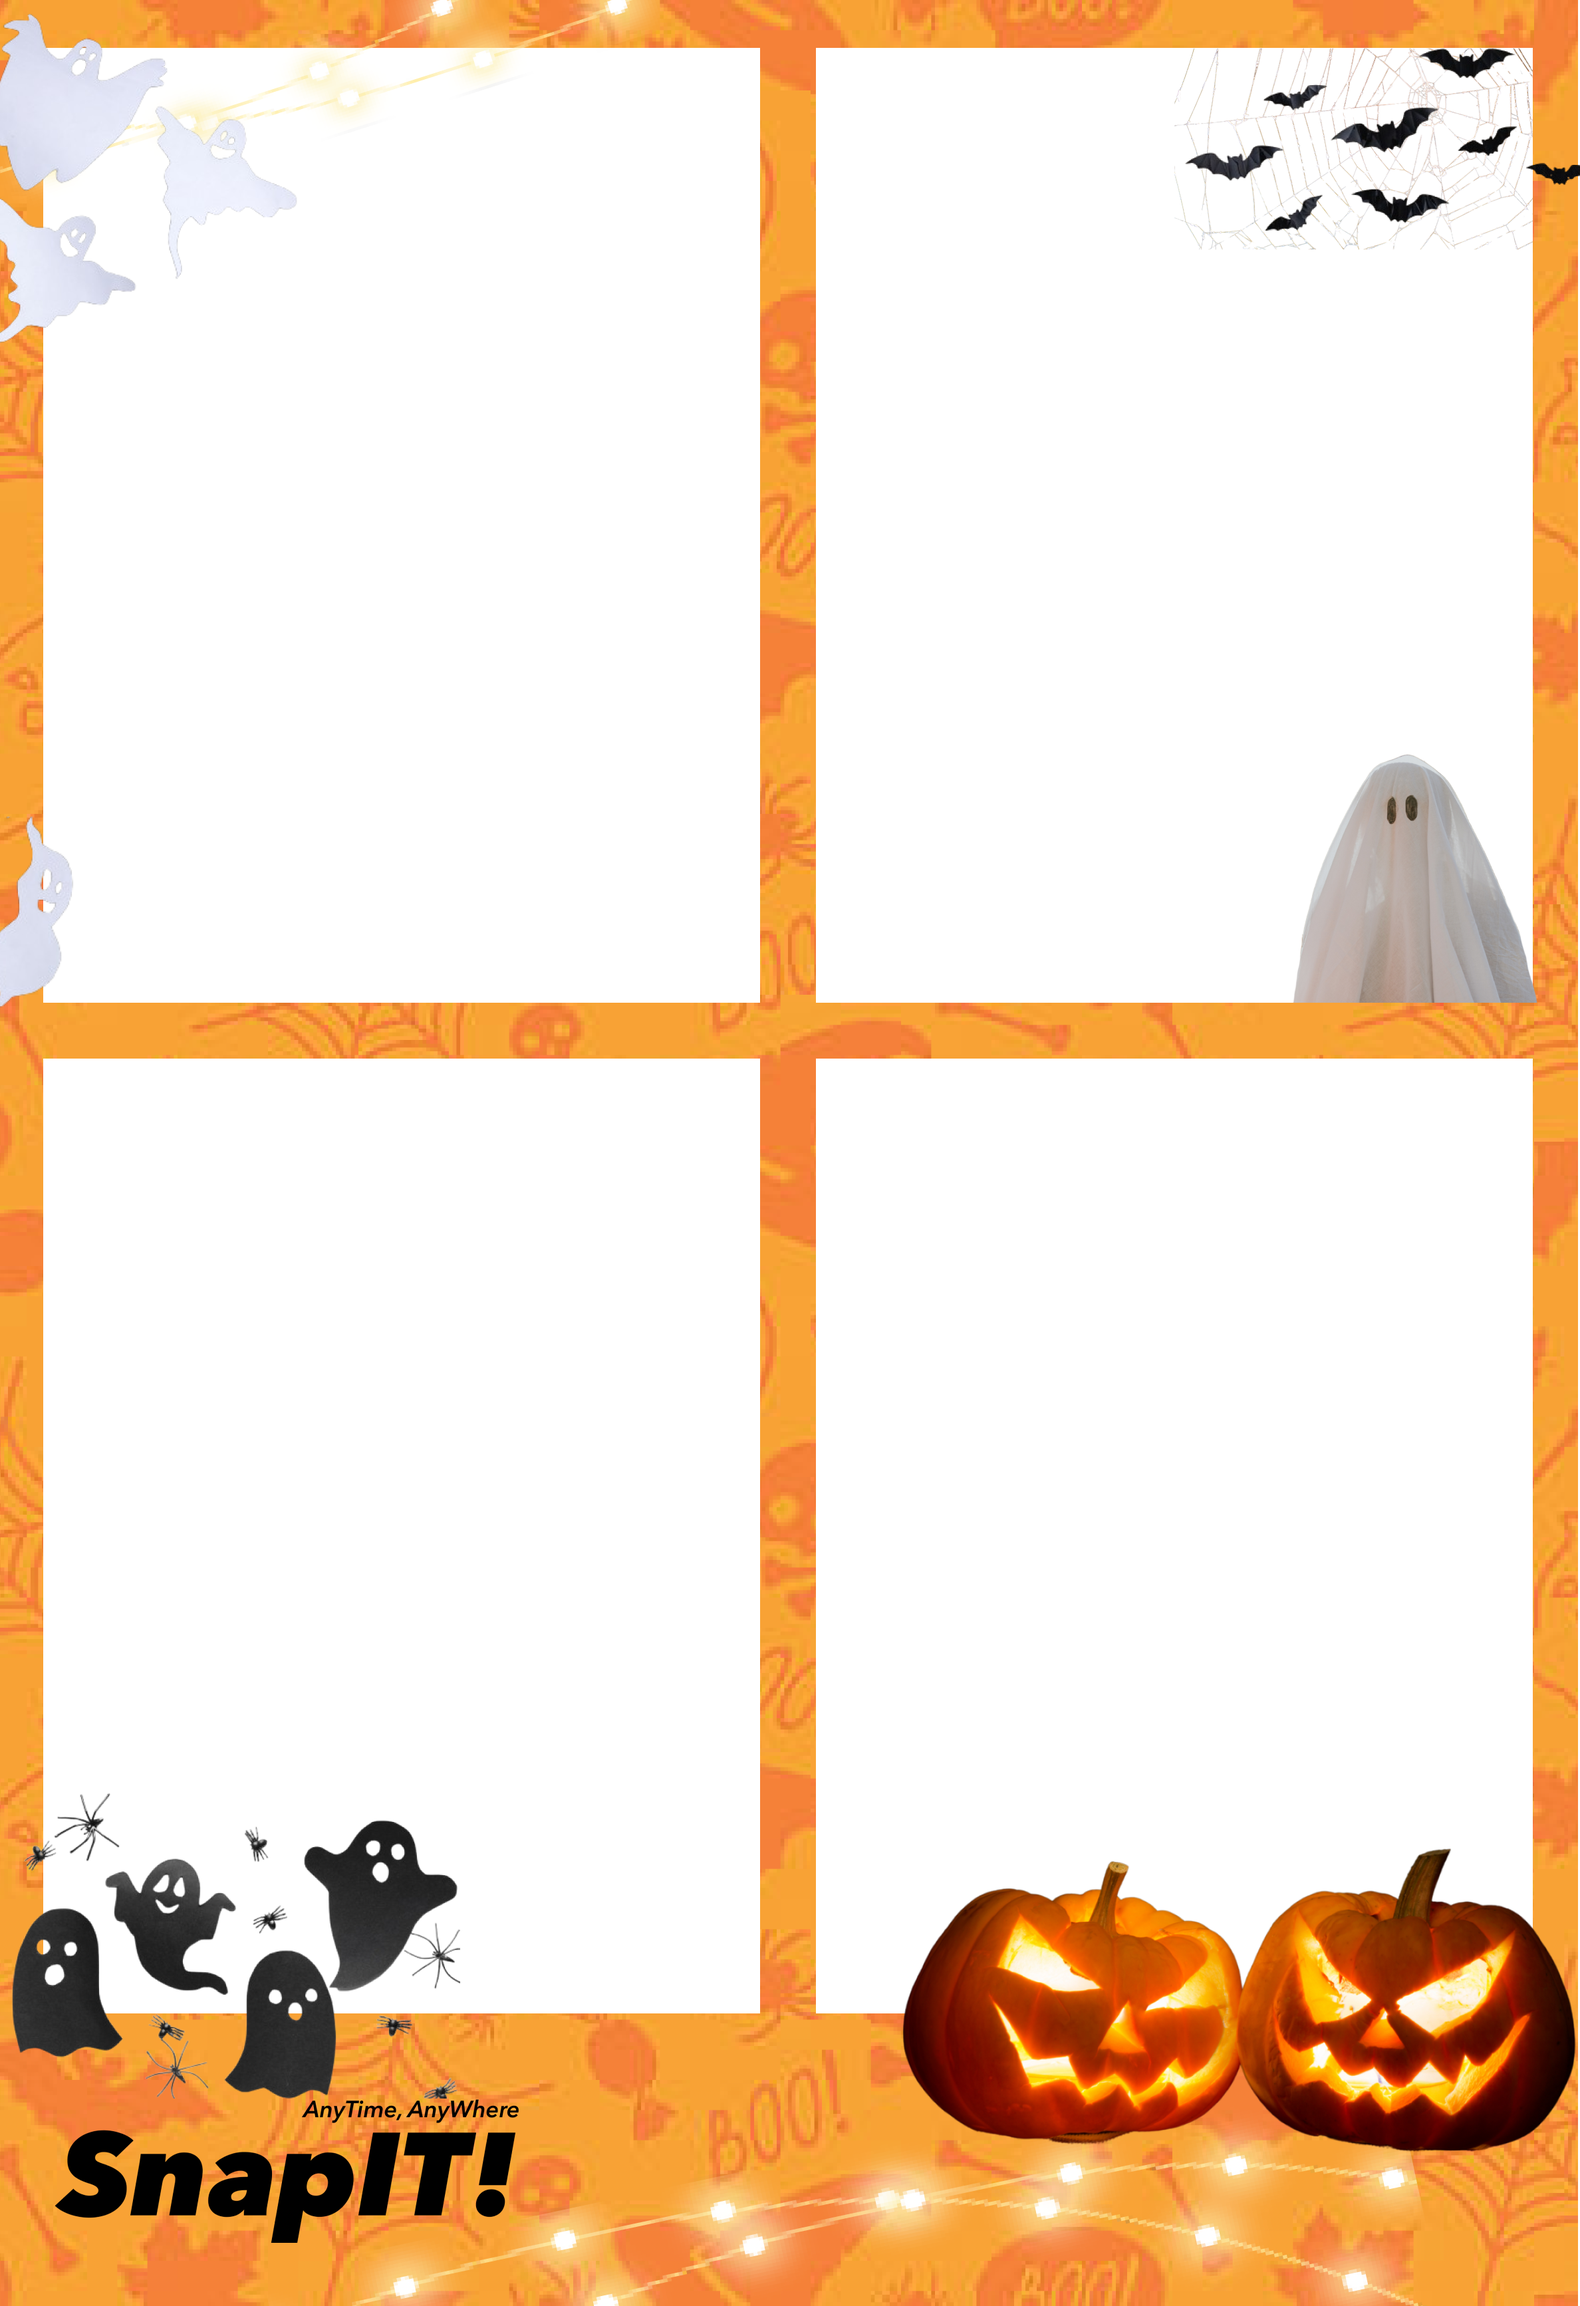
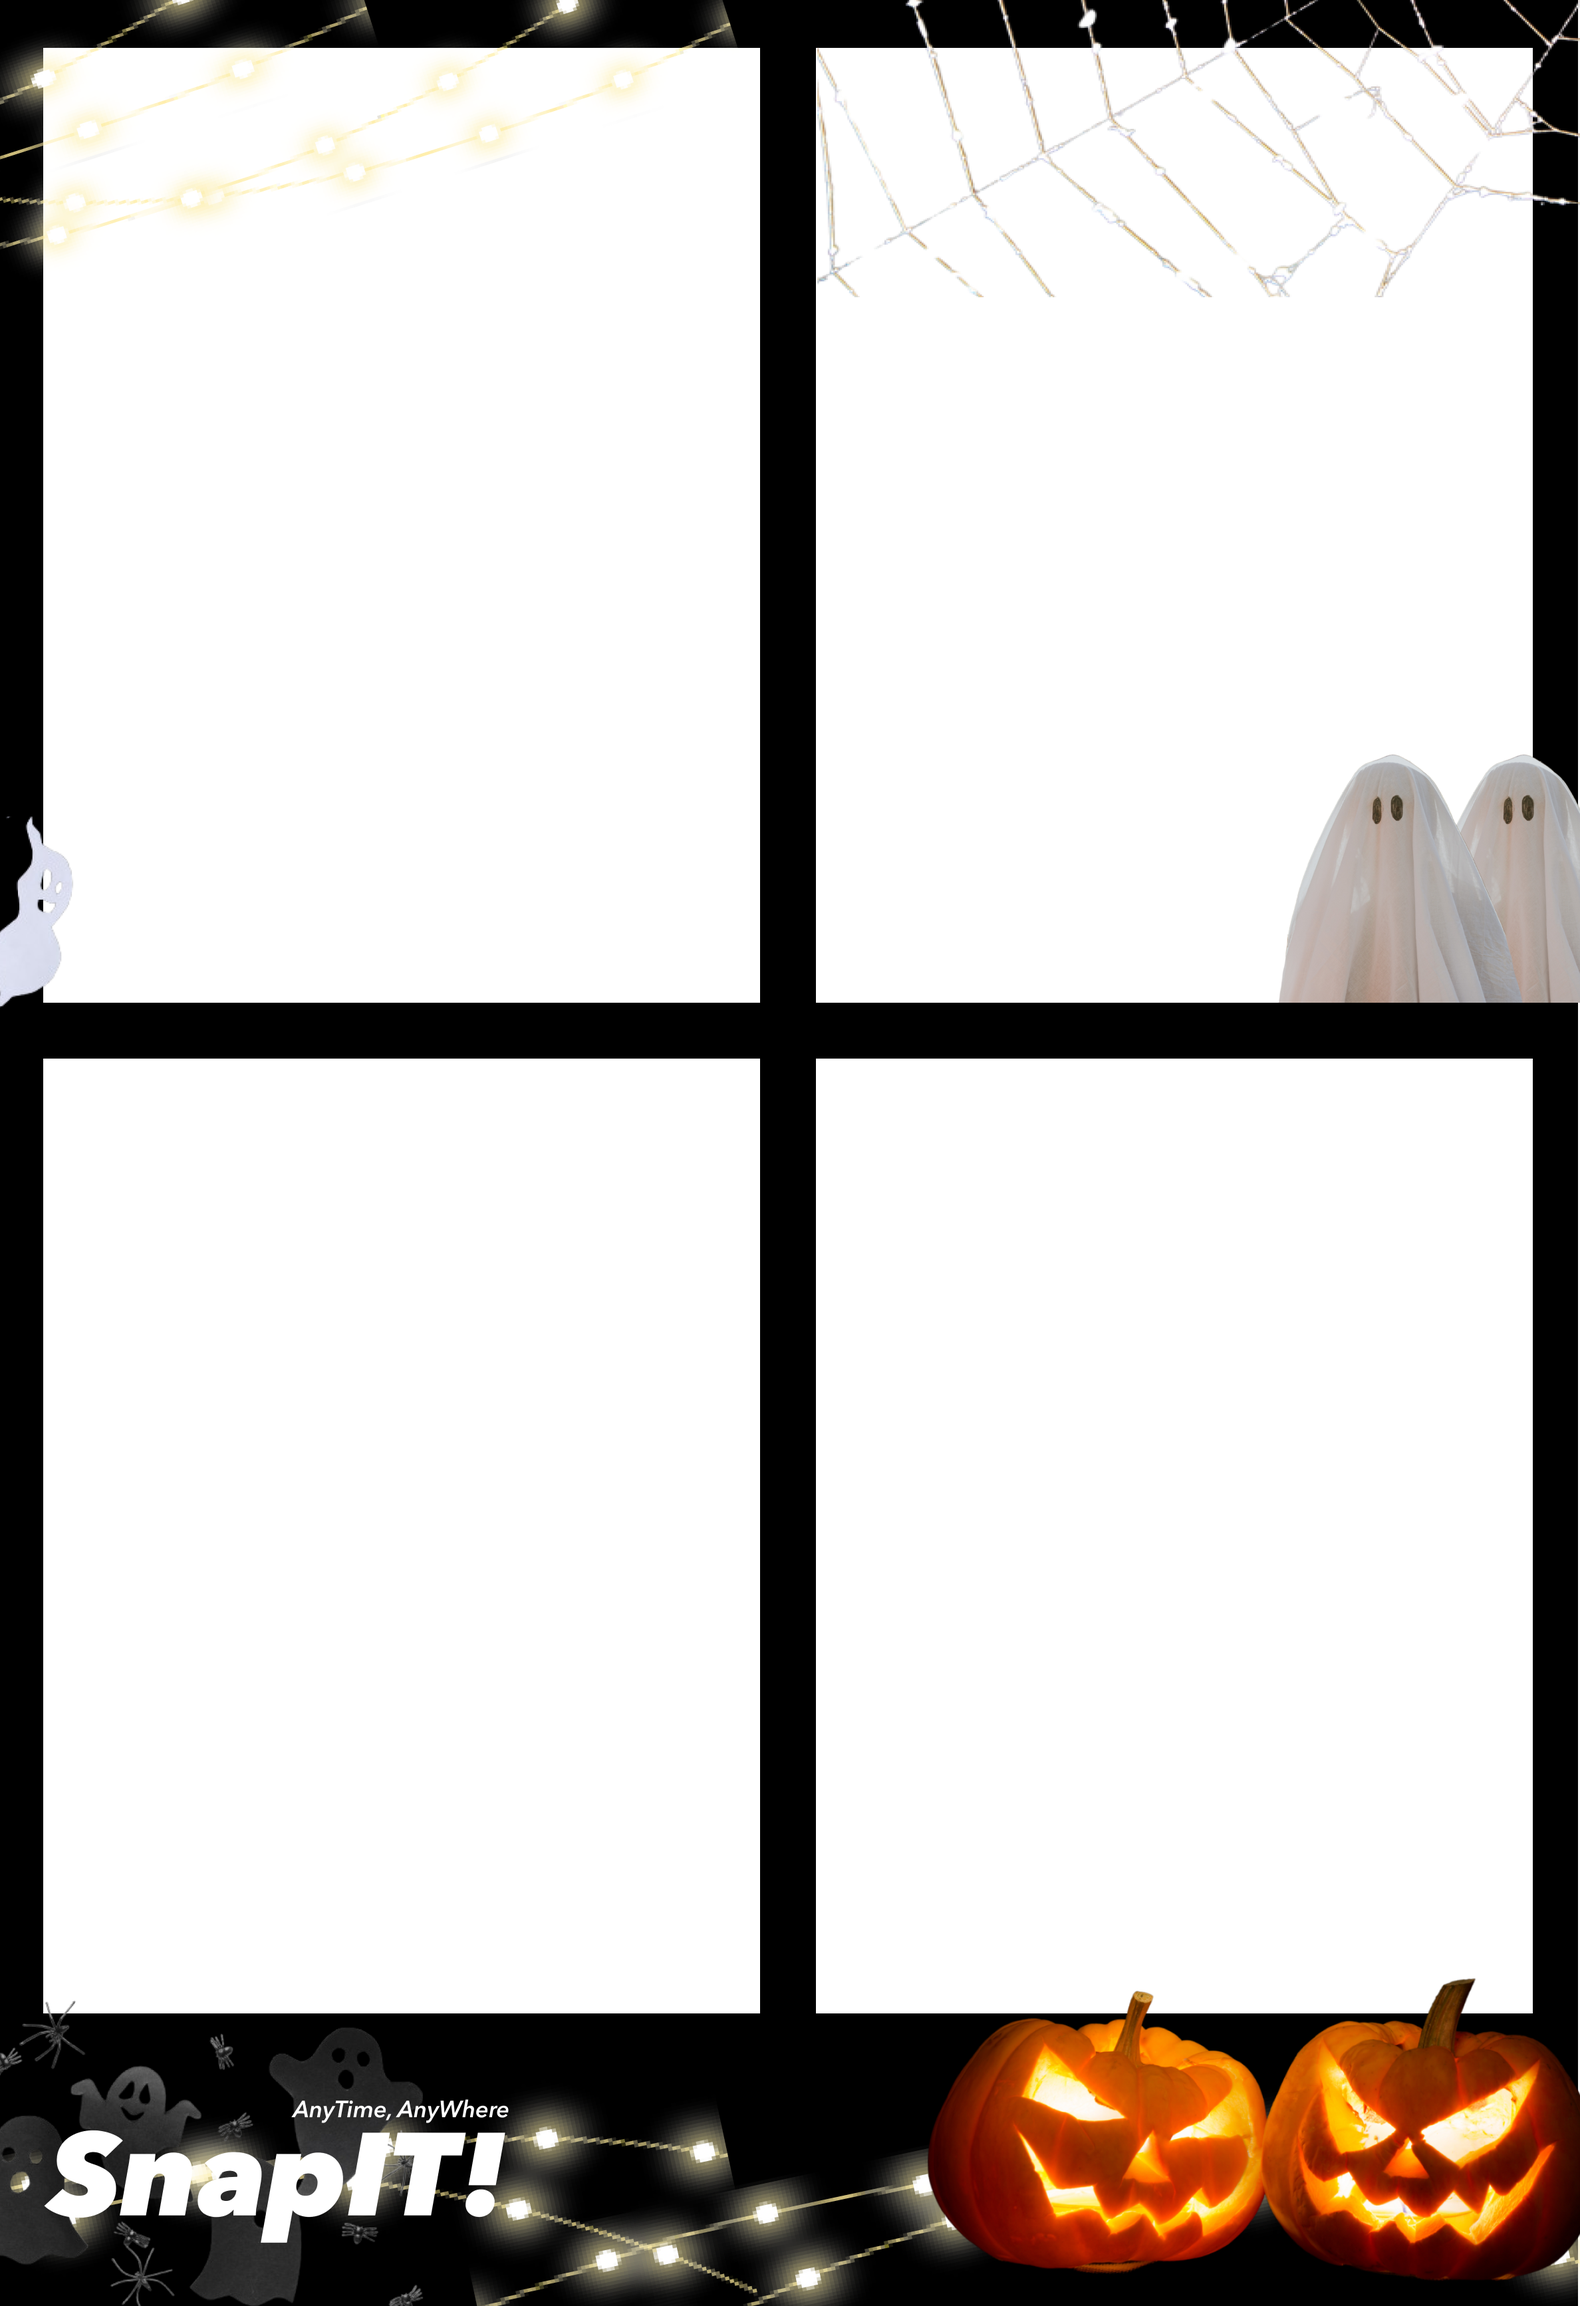
✨ Add halloween frame

Changed region(s): [[0.0, 0.0, 1.0, 1.0], [0.654, 0.0623, 0.6852, 0.0934]]

diff --git a/lib/screens/home_screen.dart b/lib/screens/home_screen.dart
@@ -67,8 +67,8 @@ class HomeScreen extends StatelessWidget {
                 "assets/select_halloween_frame.png",
                 "Halloween Special Frame",
                 "You can take 4-cut photos with Halloween special frame",
-                Color.fromARGB(255, 251, 146, 18),
-                Color.fromARGB(100, 255, 255, 255),
+                Color.fromARGB(0, 0, 0, 18),
+                Color.fromARGB(80, 255, 255, 255),
                 () {
                   Navigator.push(
                     context,
@@ -201,8 +201,9 @@ class HomeScreen extends StatelessWidget {
         decoration: BoxDecoration(
           color: backgroundColor, // Background color
           borderRadius: BorderRadius.circular(12), // Rounded corners
-          border:
-              Border.all(color: Color(0xFF1F1F1F), width: 1), // Border color
+          border: Border.all(
+              color: Color.fromARGB(100, 168, 167, 167),
+              width: 1), // Border color
         ),
         child: Row(
           children: <Widget>[
@@ -228,7 +229,7 @@ class HomeScreen extends StatelessWidget {
                 crossAxisAlignment: CrossAxisAlignment.center,
                 children: <Widget>[
                   Padding(
-                    padding: EdgeInsets.fromLTRB(20, 10, 20, 10),
+                    padding: EdgeInsets.fromLTRB(40, 10, 20, 10),
                     child: Center(
                       child: Text(
                         title,
